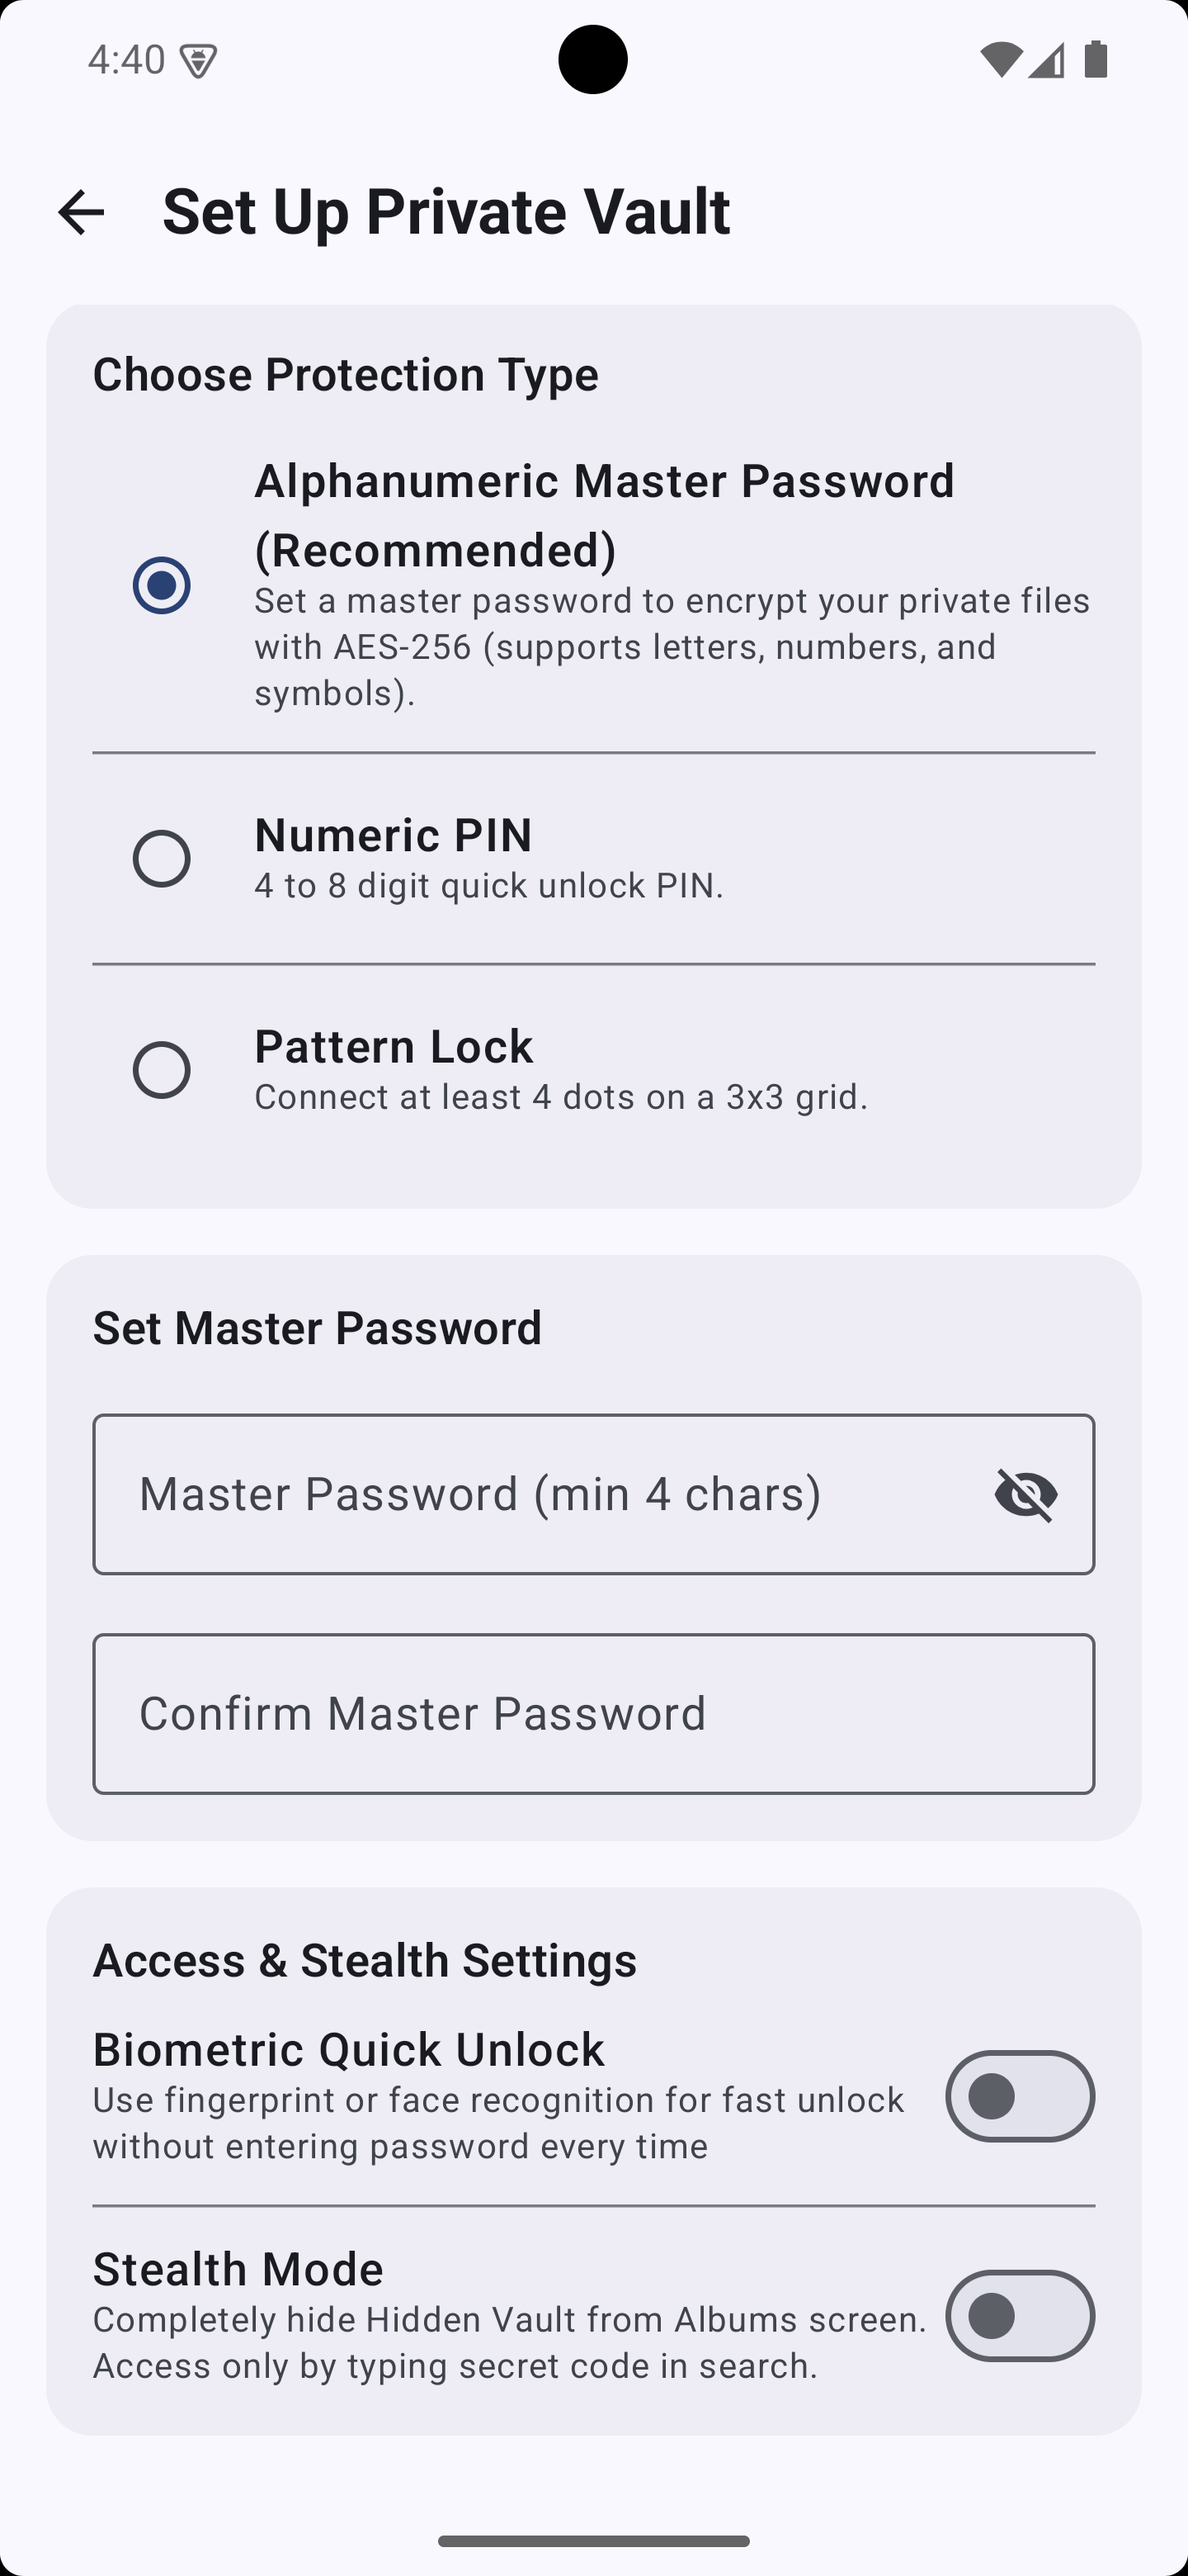
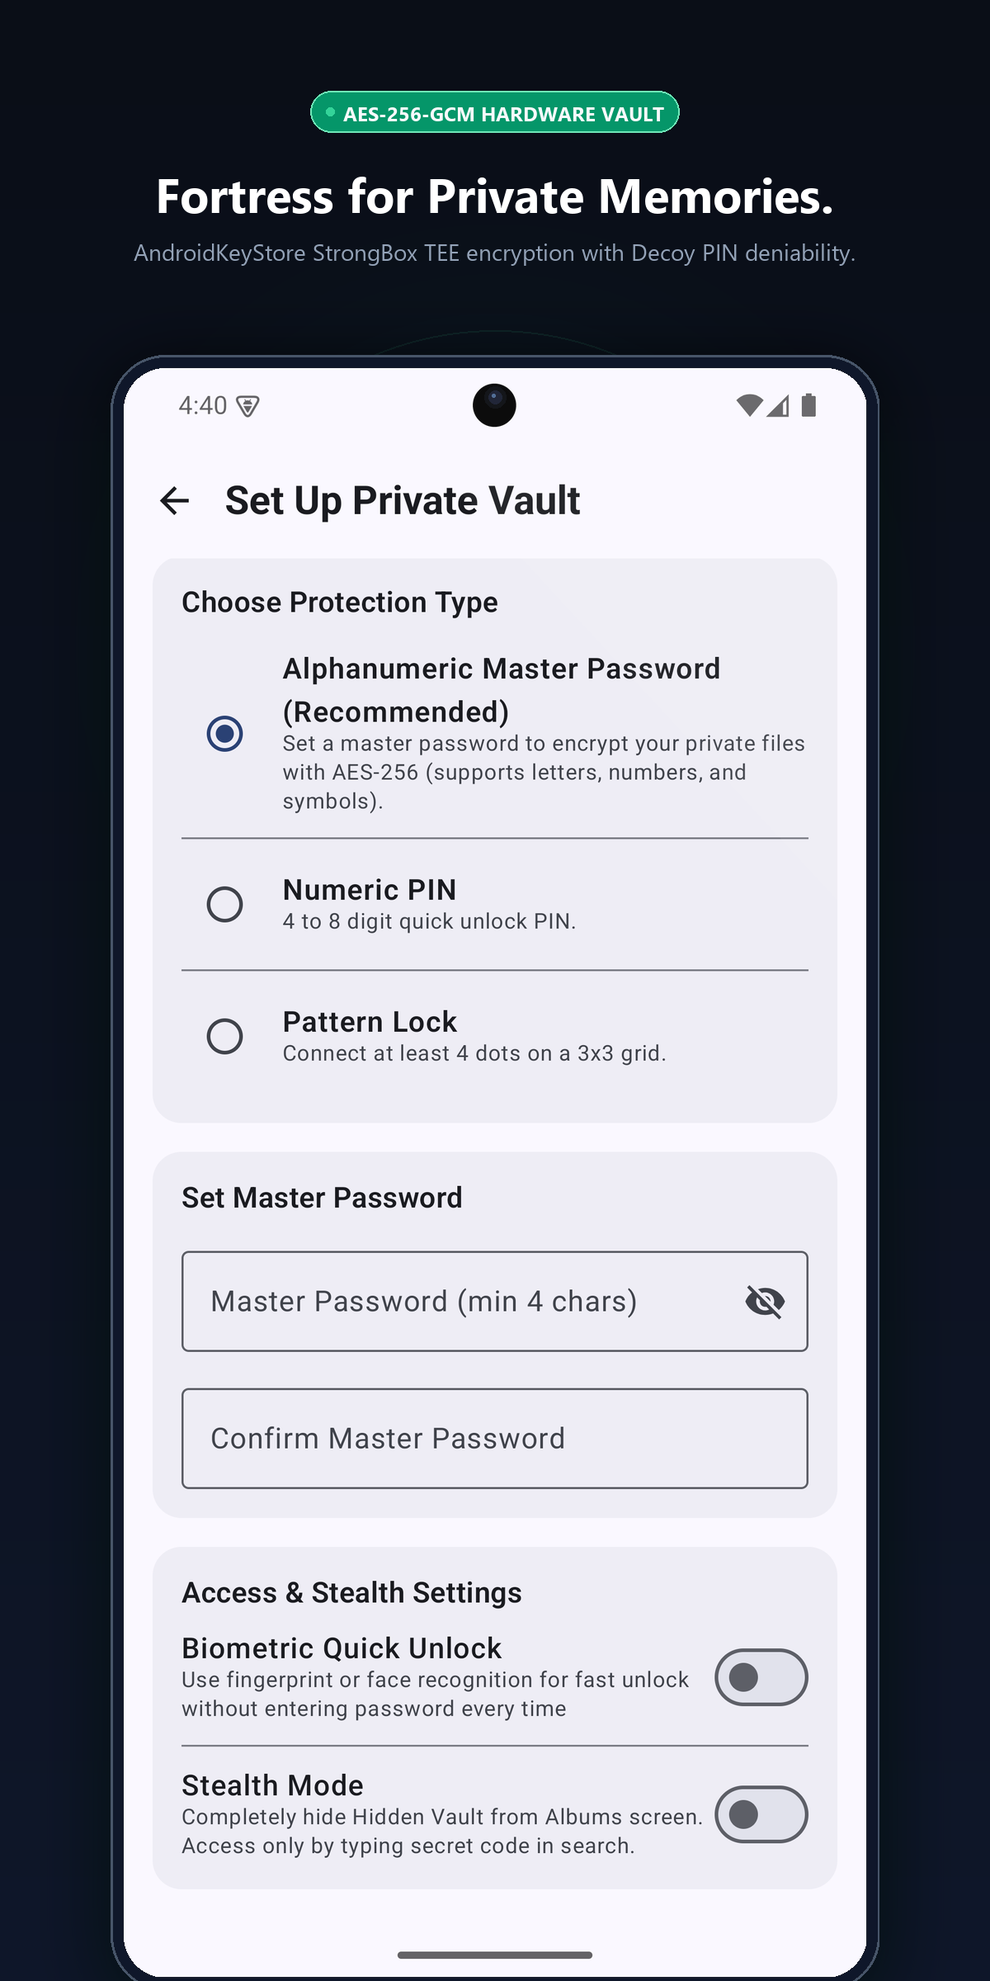
feat(showcase): create professional Play Store and GitHub showcase screenshots with custom device frames and feature copy

diff --git a/scripts/generate_showcase_screenshots.py b/scripts/generate_showcase_screenshots.py
@@ -1,0 +1,313 @@
+#!/usr/bin/env python3
+"""
+generate_showcase_screenshots.py
+Generates Google Play Store / GitHub showcase mockups for Imava.
+Combines raw screenshots with modern flagship device frames, ambient glowing backdrops,
+and sleek typography tailored for high conversion and premium presentation.
+"""
+
+import os
+import sys
+from pathlib import Path
+from PIL import Image, ImageDraw, ImageFont, ImageFilter
+
+# 1200 x 2400 (Exact 1:2 ratio, Google Play Store compliant & Retina crisp)
+CANVAS_WIDTH = 1200
+CANVAS_HEIGHT = 2400
+
+# Windows System Fonts
+FONT_BOLD_PATH = "C:/Windows/Fonts/segoeuib.ttf"
+FONT_REGULAR_PATH = "C:/Windows/Fonts/segoeui.ttf"
+
+# Showcase specifications for all 8 core screens
+SCREENSHOT_SPECS = [
+    {
+        "filename": "01_photos.png",
+        "badge": "120Hz SMOOTH • ZERO BLOAT",
+        "title": "Blazing Fast. Beautifully Pure.",
+        "subtitle": "Fluid pinch-to-zoom timeline with instant date grouping.",
+        "glow_color": (99, 102, 241),       # Indigo
+        "accent_color": (129, 140, 248),    # Light Indigo
+        "badge_border": (165, 180, 252, 160)
+    },
+    {
+        "filename": "02_albums.png",
+        "badge": "SMART ALBUMS & STORIES",
+        "title": "Organize Without Limits.",
+        "subtitle": "Pin favorite folders, browse locations, and relive throwback stories.",
+        "glow_color": (139, 92, 246),      # Violet
+        "accent_color": (167, 139, 250),   # Light Violet
+        "badge_border": (196, 181, 253, 160)
+    },
+    {
+        "filename": "03_selection.png",
+        "badge": "POWERFUL BATCH TOOLS",
+        "title": "Edit, Sanitize & Rename.",
+        "subtitle": "EXIF scrubbing, mosaic redaction, and multi-photo management in 1 tap.",
+        "glow_color": (37, 99, 235),       # Azure Blue
+        "accent_color": (96, 165, 250),    # Sky Blue
+        "badge_border": (147, 197, 253, 160)
+    },
+    {
+        "filename": "04_tag_manager.png",
+        "badge": "INSTANT SQLITE TAG FILTERING",
+        "title": "Find Any Shot in Milliseconds.",
+        "subtitle": "Custom tag ordering, drag-to-reorder, and zero-disk search indexing.",
+        "glow_color": (217, 119, 6),       # Amber
+        "accent_color": (251, 191, 36),    # Gold Amber
+        "badge_border": (253, 230, 138, 160)
+    },
+    {
+        "filename": "05_vault_setup.png",
+        "badge": "AES-256-GCM HARDWARE VAULT",
+        "title": "Fortress for Private Memories.",
+        "subtitle": "AndroidKeyStore StrongBox TEE encryption with Decoy PIN deniability.",
+        "glow_color": (5, 150, 105),       # Emerald
+        "accent_color": (52, 211, 153),    # Mint Emerald
+        "badge_border": (110, 231, 183, 160)
+    },
+    {
+        "filename": "06_privacy_shield.png",
+        "badge": "RECENT APPS PRIVACY SHIELD",
+        "title": "Immune to Shoulder Surfing.",
+        "subtitle": "FLAG_SECURE shields app previews in Android's recent task switcher.",
+        "glow_color": (225, 29, 72),       # Rose Crimson
+        "accent_color": (251, 113, 133),   # Coral Pink
+        "badge_border": (253, 164, 175, 160)
+    },
+    {
+        "filename": "07_about_legal.png",
+        "badge": "100% OFFLINE • ZERO TRACKERS",
+        "title": "Pure Privacy. Zero Compromises.",
+        "subtitle": "Audited open-source code with complete permission transparency.",
+        "glow_color": (8, 145, 178),       # Cyan
+        "accent_color": (56, 189, 248),    # Sky Cyan
+        "badge_border": (125, 211, 252, 160)
+    },
+    {
+        "filename": "08_album_privacy.png",
+        "badge": "PER-ALBUM BIOMETRIC LOCK",
+        "title": "Lock Specific Folders Instantly.",
+        "subtitle": "Fingerprint & PIN security with automatic stealth relock.",
+        "glow_color": (124, 58, 237),      # Purple
+        "accent_color": (192, 132, 252),   # Lilac
+        "badge_border": (216, 180, 254, 160)
+    }
+]
+
+def render_showcase(spec: dict, raw_path: Path, output_path: Path):
+    canvas_w = CANVAS_WIDTH
+    canvas_h = CANVAS_HEIGHT
+
+    # Base background gradient (Deep Obsidian Slate)
+    canvas = Image.new("RGBA", (canvas_w, canvas_h), (11, 15, 25, 255))
+    draw = ImageDraw.Draw(canvas)
+
+    # Gradient: Top #0A0E17 to Bottom #0F172A
+    for y in range(canvas_h):
+        factor = y / canvas_h
+        r = int(10 * (1 - factor) + 15 * factor)
+        g = int(14 * (1 - factor) + 23 * factor)
+        b = int(23 * (1 - factor) + 42 * factor)
+        draw.line([(0, y), (canvas_w, y)], fill=(r, g, b, 255))
+
+    glow_rgb = spec["glow_color"]
+    accent_rgb = spec["accent_color"]
+    badge_border = spec["badge_border"]
+
+    # Multi-ring ambient glowing aura behind the device
+    glow_img = Image.new("RGBA", (canvas_w, canvas_h), (0, 0, 0, 0))
+    glow_draw = ImageDraw.Draw(glow_img)
+    glow_center_x = canvas_w // 2
+    glow_center_y = 780
+    glow_radius = 580
+
+    for r in range(glow_radius, 0, -12):
+        alpha = int(48 * (1 - r / glow_radius) ** 1.85)
+        glow_draw.ellipse(
+            [glow_center_x - r, glow_center_y - r, glow_center_x + r, glow_center_y + r],
+            fill=(glow_rgb[0], glow_rgb[1], glow_rgb[2], alpha)
+        )
+
+    # Subtle decorative geometric halo ring
+    ring_r = 380
+    glow_draw.ellipse(
+        [glow_center_x - ring_r, glow_center_y - ring_r, glow_center_x + ring_r, glow_center_y + ring_r],
+        outline=(accent_rgb[0], accent_rgb[1], accent_rgb[2], 28),
+        width=2
+    )
+
+    canvas = Image.alpha_composite(canvas, glow_img)
+    draw = ImageDraw.Draw(canvas)
+
+    # Load fonts
+    font_pill = ImageFont.truetype(FONT_BOLD_PATH, 24)
+    font_title = ImageFont.truetype(FONT_BOLD_PATH, 58)
+    font_sub = ImageFont.truetype(FONT_REGULAR_PATH, 28)
+
+    # 1. Badge Pill
+    pill_text = spec["badge"]
+    pill_bbox = font_pill.getbbox(pill_text)
+    pill_text_w = pill_bbox[2] - pill_bbox[0]
+    pill_w = pill_text_w + 58
+    pill_h = 50
+    pill_x = (canvas_w - pill_w) // 2
+    pill_y = 110
+
+    # Pill background
+    draw.rounded_rectangle(
+        [pill_x, pill_y, pill_x + pill_w, pill_y + pill_h],
+        radius=25,
+        fill=(glow_rgb[0], glow_rgb[1], glow_rgb[2], 42),
+        outline=badge_border,
+        width=2
+    )
+
+    # Glowing dot in pill
+    dot_r = 5
+    dot_x = pill_x + 24
+    dot_y = pill_y + pill_h // 2
+    draw.ellipse(
+        [dot_x - dot_r, dot_y - dot_r, dot_x + dot_r, dot_y + dot_r],
+        fill=(accent_rgb[0], accent_rgb[1], accent_rgb[2], 255)
+    )
+    draw.text(
+        (pill_x + 40, pill_y + 11),
+        pill_text,
+        font=font_pill,
+        fill=(248, 250, 252, 255)
+    )
+
+    # 2. Main Title
+    title_text = spec["title"]
+    title_bbox = font_title.getbbox(title_text)
+    title_w = title_bbox[2] - title_bbox[0]
+    title_x = (canvas_w - title_w) // 2
+    title_y = 195
+    draw.text((title_x, title_y), title_text, font=font_title, fill=(255, 255, 255, 255))
+
+    # 3. Subtitle (supports optional wrap if long)
+    sub_text = spec["subtitle"]
+    sub_bbox = font_sub.getbbox(sub_text)
+    sub_w = sub_bbox[2] - sub_bbox[0]
+    sub_x = (canvas_w - sub_w) // 2
+    sub_y = 285
+    draw.text((sub_x, sub_y), sub_text, font=font_sub, fill=(148, 163, 184, 255))
+
+    # 4. Device Mockup
+    screen_raw = Image.open(raw_path).convert("RGBA")
+
+    screen_w = 900
+    screen_h = int(screen_w * (screen_raw.height / screen_raw.width))
+    screen_resized = screen_raw.resize((screen_w, screen_h), Image.Resampling.LANCZOS)
+
+    # Screen corner radius
+    screen_radius = 50
+    mask = Image.new("L", (screen_w, screen_h), 0)
+    mask_draw = ImageDraw.Draw(mask)
+    mask_draw.rounded_rectangle([0, 0, screen_w, screen_h], radius=screen_radius, fill=255)
+
+    # Frame specs
+    bezel = 16
+    frame_w = screen_w + (bezel * 2)
+    frame_h = screen_h + (bezel * 2)
+    frame_radius = screen_radius + bezel
+
+    phone_img = Image.new("RGBA", (frame_w, frame_h), (0, 0, 0, 0))
+    phone_draw = ImageDraw.Draw(phone_img)
+
+    # Outer metallic chassis
+    phone_draw.rounded_rectangle(
+        [0, 0, frame_w, frame_h],
+        radius=frame_radius,
+        fill=(24, 30, 44, 255),
+        outline=(71, 85, 105, 255),
+        width=3
+    )
+    # Inner bezel trim
+    phone_draw.rounded_rectangle(
+        [3, 3, frame_w - 3, frame_h - 3],
+        radius=frame_radius - 2,
+        fill=None,
+        outline=(15, 23, 42, 255),
+        width=bezel - 4
+    )
+
+    # Paste screen inside frame
+    phone_img.paste(screen_resized, (bezel, bezel), mask)
+
+    # Camera punch hole
+    cam_d = 26
+    cam_x = frame_w // 2 - cam_d // 2
+    cam_y = bezel + 22
+    phone_draw.ellipse([cam_x, cam_y, cam_x + cam_d, cam_y + cam_d], fill=(8, 10, 15, 255))
+    phone_draw.ellipse([cam_x + 5, cam_y + 5, cam_x + cam_d - 5, cam_y + cam_d - 5], fill=(22, 27, 46, 255))
+    phone_draw.ellipse([cam_x + 9, cam_y + 9, cam_x + 13, cam_y + 13], fill=(130, 180, 255, 140)) # lens glare
+
+    # Subtle screen glass glare reflection in upper right
+    glare_img = Image.new("RGBA", (screen_w, screen_h), (0, 0, 0, 0))
+    glare_draw = ImageDraw.Draw(glare_img)
+    glare_draw.polygon([
+        (screen_w // 2, 0),
+        (screen_w, 0),
+        (screen_w, int(screen_h * 0.35)),
+        (int(screen_w * 0.3), 0)
+    ], fill=(255, 255, 255, 12))
+    glare_masked = Image.new("RGBA", (screen_w, screen_h), (0, 0, 0, 0))
+    glare_masked.paste(glare_img, (0, 0), mask)
+    phone_img.alpha_composite(glare_masked, (bezel, bezel))
+
+    # Multi-tier drop shadow
+    shadow_pad = 120
+    shadow_img = Image.new("RGBA", (frame_w + shadow_pad * 2, frame_h + shadow_pad * 2), (0, 0, 0, 0))
+    shadow_draw = ImageDraw.Draw(shadow_img)
+
+    # Colored ambient bounce shadow
+    shadow_draw.rounded_rectangle(
+        [shadow_pad - 10, shadow_pad + 20, shadow_pad + frame_w + 10, shadow_pad + frame_h + 30],
+        radius=frame_radius + 10,
+        fill=(glow_rgb[0], glow_rgb[1], glow_rgb[2], 55)
+    )
+    # Deep black contact shadow
+    shadow_draw.rounded_rectangle(
+        [shadow_pad, shadow_pad + 15, shadow_pad + frame_w, shadow_pad + frame_h + 20],
+        radius=frame_radius,
+        fill=(0, 0, 0, 210)
+    )
+    shadow_blurred = shadow_img.filter(ImageFilter.GaussianBlur(40))
+
+    # Position phone on canvas (rising from bottom)
+    phone_x = (canvas_w - frame_w) // 2
+    phone_y = 430
+
+    # Composite shadow then phone
+    canvas.alpha_composite(shadow_blurred, (phone_x - shadow_pad, phone_y - shadow_pad))
+    canvas.alpha_composite(phone_img, (phone_x, phone_y))
+
+    # Save high-quality RGB PNG
+    output_path.parent.mkdir(parents=True, exist_ok=True)
+    canvas.convert("RGB").save(output_path, format="PNG", optimize=True)
+    print(f"  [OK] Rendered {output_path.name}")
+
+def main():
+    repo_root = Path(__file__).resolve().parent.parent
+    raw_dir = repo_root / "screenshots" / "raw"
+    dest_dir = repo_root / "screenshots"
+
+    if not raw_dir.exists():
+        print(f"Error: {raw_dir} does not exist.")
+        sys.exit(1)
+
+    print("[*] Generating Play Store & GitHub Showcase Mockups...")
+    for spec in SCREENSHOT_SPECS:
+        raw_file = raw_dir / spec["filename"]
+        if not raw_file.exists():
+            print(f"  [!] Missing raw file: {raw_file}")
+            continue
+        out_file = dest_dir / spec["filename"]
+        render_showcase(spec, raw_file, out_file)
+
+    print("[SUCCESS] All 8 showcase screenshots generated successfully!")
+
+if __name__ == "__main__":
+    main()
